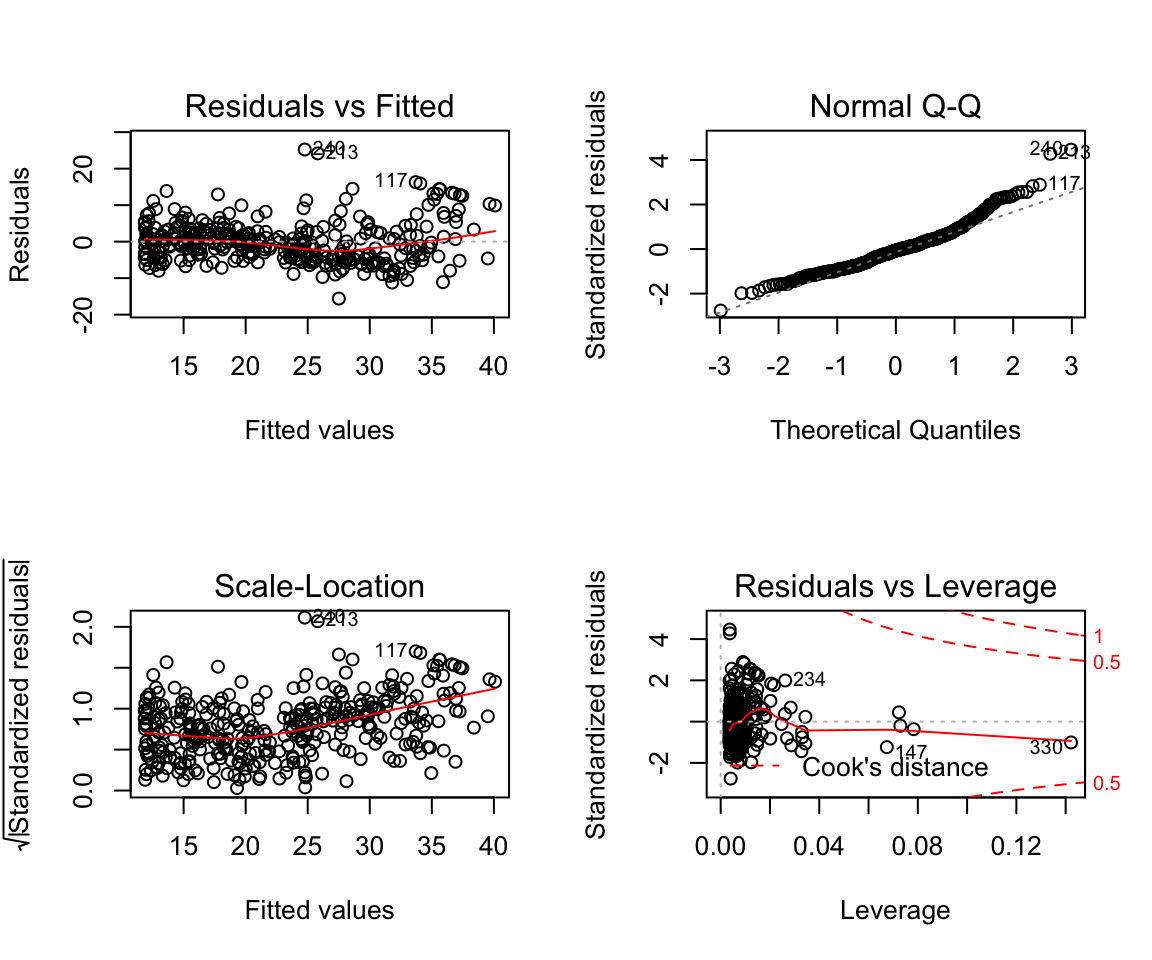
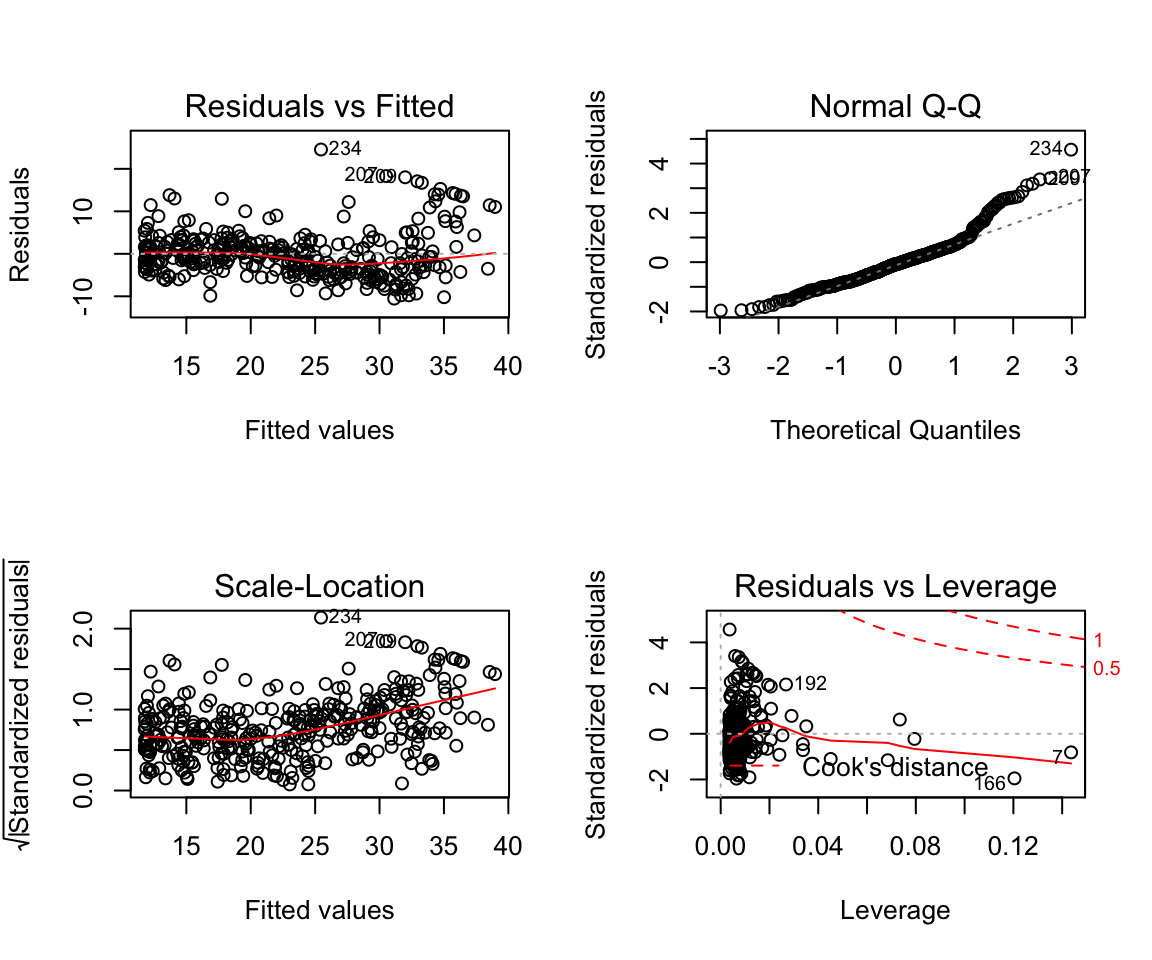
Update 314

diff --git a/STA314F19.html b/STA314F19.html
@@ -585,19 +585,19 @@ summary(model1)</code></pre>
 ## lm(formula = medv ~ lstat, data = df_train)
 ## 
 ## Residuals:
-##     Min      1Q  Median      3Q     Max 
-## -15.478  -4.264  -1.492   2.266  24.180 
+##    Min     1Q Median     3Q    Max 
+## -9.982 -4.000 -1.364  1.931 23.873 
 ## 
 ## Coefficients:
 ##             Estimate Std. Error t value Pr(&gt;|t|)    
-## (Intercept)  34.8172     0.6978   49.90   &lt;2e-16 ***
-## lstat        -0.9441     0.0477  -19.79   &lt;2e-16 ***
+## (Intercept) 34.38968    0.65308   52.66   &lt;2e-16 ***
+## lstat       -0.93051    0.04507  -20.65   &lt;2e-16 ***
 ## ---
 ## Signif. codes:  0 &#39;***&#39; 0.001 &#39;**&#39; 0.01 &#39;*&#39; 0.05 &#39;.&#39; 0.1 &#39; &#39; 1
 ## 
-## Residual standard error: 6.55 on 352 degrees of freedom
-## Multiple R-squared:  0.5268, Adjusted R-squared:  0.5254 
-## F-statistic: 391.8 on 1 and 352 DF,  p-value: &lt; 2.2e-16</code></pre>
+## Residual standard error: 6.194 on 352 degrees of freedom
+## Multiple R-squared:  0.5477, Adjusted R-squared:  0.5465 
+## F-statistic: 426.3 on 1 and 352 DF,  p-value: &lt; 2.2e-16</code></pre>
 <pre class="r"><code>plot(model1)</code></pre>
 <p><img src="STA314F19_files/figure-html/Model%20Assumptions-1.png" width="576" /><img src="STA314F19_files/figure-html/Model%20Assumptions-2.png" width="576" /><img src="STA314F19_files/figure-html/Model%20Assumptions-3.png" width="576" /><img src="STA314F19_files/figure-html/Model%20Assumptions-4.png" width="576" /></p>
 <p>Assumptions are not satisfied!</p>
@@ -629,19 +629,19 @@ summary(model2)</code></pre>
 ## 
 ## Residuals:
 ##     Min      1Q  Median      3Q     Max 
-## -16.270  -4.282  -1.484   2.660  22.865 
+## -11.320  -4.049  -1.229   1.811  22.801 
 ## 
 ## Coefficients:
 ##             Estimate Std. Error t value Pr(&gt;|t|)    
-## (Intercept) 33.48517    0.91463  36.611   &lt;2e-16 ***
-## lstat       -1.02161    0.05875 -17.388   &lt;2e-16 ***
-## age          0.03386    0.01515   2.235    0.026 *  
+## (Intercept) 33.04173    0.84912  38.913   &lt;2e-16 ***
+## lstat       -1.01228    0.05575 -18.157   &lt;2e-16 ***
+## age          0.03512    0.01428   2.459   0.0144 *  
 ## ---
 ## Signif. codes:  0 &#39;***&#39; 0.001 &#39;**&#39; 0.01 &#39;*&#39; 0.05 &#39;.&#39; 0.1 &#39; &#39; 1
 ## 
-## Residual standard error: 6.513 on 351 degrees of freedom
-## Multiple R-squared:  0.5334, Adjusted R-squared:  0.5307 
-## F-statistic: 200.6 on 2 and 351 DF,  p-value: &lt; 2.2e-16</code></pre>
+## Residual standard error: 6.151 on 351 degrees of freedom
+## Multiple R-squared:  0.5554, Adjusted R-squared:  0.5529 
+## F-statistic: 219.2 on 2 and 351 DF,  p-value: &lt; 2.2e-16</code></pre>
 <pre class="r"><code>plot(model2)</code></pre>
 <p><img src="STA314F19_files/figure-html/MLR-1.png" width="576" /><img src="STA314F19_files/figure-html/MLR-2.png" width="576" /><img src="STA314F19_files/figure-html/MLR-3.png" width="576" /><img src="STA314F19_files/figure-html/MLR-4.png" width="576" /></p>
 <p>How to add everything (and subtract some) variables:</p>
@@ -653,28 +653,28 @@ summary(model3)</code></pre>
 ## 
 ## Residuals:
 ##      Min       1Q   Median       3Q      Max 
-## -11.3489  -3.0458  -0.6117   2.0301  25.4191 
+## -16.0476  -2.8262  -0.5434   1.8303  26.4347 
 ## 
 ## Coefficients:
 ##               Estimate Std. Error t value Pr(&gt;|t|)    
-## (Intercept)  33.894182   6.330942   5.354 1.58e-07 ***
-## crim         -0.141533   0.036919  -3.834 0.000150 ***
-## zn            0.049012   0.016217   3.022 0.002699 ** 
-## chas          3.838400   1.064806   3.605 0.000359 ***
-## nox         -19.492956   4.337231  -4.494 9.56e-06 ***
-## rm            4.093314   0.518198   7.899 3.87e-14 ***
-## dis          -1.617703   0.223072  -7.252 2.77e-12 ***
-## rad           0.305310   0.074606   4.092 5.33e-05 ***
-## tax          -0.009415   0.003915  -2.405 0.016697 *  
-## ptratio      -0.854389   0.161702  -5.284 2.26e-07 ***
-## black         0.009051   0.003373   2.684 0.007636 ** 
-## lstat        -0.523129   0.056640  -9.236  &lt; 2e-16 ***
+## (Intercept)  33.588963   6.154665   5.457 9.29e-08 ***
+## crim         -0.026194   0.050355  -0.520 0.603274    
+## zn            0.042145   0.016541   2.548 0.011274 *  
+## chas          2.999092   1.034052   2.900 0.003969 ** 
+## nox         -17.760867   4.280422  -4.149 4.21e-05 ***
+## rm            3.940325   0.482194   8.172 5.97e-15 ***
+## dis          -1.472799   0.224174  -6.570 1.88e-10 ***
+## rad           0.302250   0.084253   3.587 0.000383 ***
+## tax          -0.013282   0.004484  -2.962 0.003268 ** 
+## ptratio      -0.838186   0.162037  -5.173 3.94e-07 ***
+## black         0.010429   0.003258   3.201 0.001496 ** 
+## lstat        -0.522241   0.056544  -9.236  &lt; 2e-16 ***
 ## ---
 ## Signif. codes:  0 &#39;***&#39; 0.001 &#39;**&#39; 0.01 &#39;*&#39; 0.05 &#39;.&#39; 0.1 &#39; &#39; 1
 ## 
-## Residual standard error: 5.007 on 342 degrees of freedom
-## Multiple R-squared:  0.7314, Adjusted R-squared:  0.7227 
-## F-statistic: 84.64 on 11 and 342 DF,  p-value: &lt; 2.2e-16</code></pre>
+## Residual standard error: 4.763 on 342 degrees of freedom
+## Multiple R-squared:  0.7402, Adjusted R-squared:  0.7319 
+## F-statistic: 88.59 on 11 and 342 DF,  p-value: &lt; 2.2e-16</code></pre>
 <p>How to add interactions:</p>
 <pre class="r"><code>model4 &lt;- lm(data = df_train, formula = medv ~ . -age -indus + lstat:ptratio )
 summary(model4)</code></pre>
@@ -684,29 +684,29 @@ summary(model4)</code></pre>
 ## 
 ## Residuals:
 ##      Min       1Q   Median       3Q      Max 
-## -11.3495  -3.0458  -0.6146   2.0275  25.4242 
+## -15.9272  -2.8449  -0.5772   1.8658  26.5312 
 ## 
 ## Coefficients:
 ##                 Estimate Std. Error t value Pr(&gt;|t|)    
-## (Intercept)    3.397e+01  7.673e+00   4.428 1.28e-05 ***
-## crim          -1.416e-01  3.703e-02  -3.823 0.000156 ***
-## zn             4.895e-02  1.658e-02   2.952 0.003378 ** 
-## chas           3.839e+00  1.067e+00   3.599 0.000367 ***
-## nox           -1.946e+01  4.671e+00  -4.166 3.93e-05 ***
-## rm             4.091e+00  5.336e-01   7.667 1.86e-13 ***
-## dis           -1.616e+00  2.330e-01  -6.937 2.03e-11 ***
-## rad            3.053e-01  7.472e-02   4.086 5.47e-05 ***
-## tax           -9.428e-03  3.981e-03  -2.368 0.018436 *  
-## ptratio       -8.588e-01  2.883e-01  -2.979 0.003099 ** 
-## black          9.054e-03  3.381e-03   2.678 0.007760 ** 
-## lstat         -5.306e-01  4.039e-01  -1.313 0.189907    
-## ptratio:lstat  3.883e-04  2.087e-02   0.019 0.985170    
+## (Intercept)    34.759429   7.366624   4.719 3.47e-06 ***
+## crim           -0.028183   0.050887  -0.554 0.580054    
+## zn              0.040873   0.017134   2.385 0.017605 *  
+## chas            3.019162   1.037749   2.909 0.003860 ** 
+## nox           -17.284907   4.589568  -3.766 0.000195 ***
+## rm              3.910229   0.493865   7.918 3.44e-14 ***
+## dis            -1.450514   0.237261  -6.114 2.66e-09 ***
+## rad             0.301616   0.084394   3.574 0.000402 ***
+## tax            -0.013400   0.004508  -2.972 0.003165 ** 
+## ptratio        -0.906469   0.285921  -3.170 0.001661 ** 
+## black           0.010462   0.003264   3.205 0.001477 ** 
+## lstat          -0.636926   0.399444  -1.595 0.111744    
+## ptratio:lstat   0.006030   0.020791   0.290 0.771962    
 ## ---
 ## Signif. codes:  0 &#39;***&#39; 0.001 &#39;**&#39; 0.01 &#39;*&#39; 0.05 &#39;.&#39; 0.1 &#39; &#39; 1
 ## 
-## Residual standard error: 5.014 on 341 degrees of freedom
-## Multiple R-squared:  0.7314, Adjusted R-squared:  0.7219 
-## F-statistic: 77.36 on 12 and 341 DF,  p-value: &lt; 2.2e-16</code></pre>
+## Residual standard error: 4.769 on 341 degrees of freedom
+## Multiple R-squared:  0.7403, Adjusted R-squared:  0.7311 
+## F-statistic: 80.99 on 12 and 341 DF,  p-value: &lt; 2.2e-16</code></pre>
 <p>How to write high level interactions:</p>
 <pre class="r"><code>model5 &lt;- lm(data = df_train, formula = medv ~ lstat*ptratio*black)
 summary(model5)</code></pre>
@@ -716,24 +716,24 @@ summary(model5)</code></pre>
 ## 
 ## Residuals:
 ##      Min       1Q   Median       3Q      Max 
-## -13.1307  -3.9053  -0.9233   1.7941  27.1501 
+## -12.6598  -3.3652  -0.8408   1.3818  27.4533 
 ## 
 ## Coefficients:
 ##                       Estimate Std. Error t value Pr(&gt;|t|)  
-## (Intercept)         -2.814e+01  5.108e+01  -0.551   0.5820  
-## lstat                2.176e+00  2.950e+00   0.738   0.4613  
-## ptratio              2.287e+00  2.584e+00   0.885   0.3766  
-## black                2.515e-01  1.341e-01   1.875   0.0616 .
-## lstat:ptratio       -1.191e-01  1.483e-01  -0.803   0.4223  
-## lstat:black         -1.130e-02  7.822e-03  -1.444   0.1495  
-## ptratio:black       -1.090e-02  6.798e-03  -1.603   0.1098  
-## lstat:ptratio:black  4.956e-04  3.940e-04   1.258   0.2093  
+## (Intercept)         -1.925e+01  4.671e+01  -0.412   0.6805  
+## lstat                1.825e+00  2.706e+00   0.674   0.5006  
+## ptratio              1.927e+00  2.362e+00   0.816   0.4152  
+## black                2.286e-01  1.227e-01   1.863   0.0633 .
+## lstat:ptratio       -1.064e-01  1.357e-01  -0.784   0.4337  
+## lstat:black         -1.044e-02  7.206e-03  -1.449   0.1482  
+## ptratio:black       -1.008e-02  6.218e-03  -1.620   0.1061  
+## lstat:ptratio:black  4.693e-04  3.624e-04   1.295   0.1961  
 ## ---
 ## Signif. codes:  0 &#39;***&#39; 0.001 &#39;**&#39; 0.01 &#39;*&#39; 0.05 &#39;.&#39; 0.1 &#39; &#39; 1
 ## 
-## Residual standard error: 6.019 on 346 degrees of freedom
-## Multiple R-squared:  0.6071, Adjusted R-squared:  0.5992 
-## F-statistic: 76.39 on 7 and 346 DF,  p-value: &lt; 2.2e-16</code></pre>
+## Residual standard error: 5.64 on 346 degrees of freedom
+## Multiple R-squared:  0.6315, Adjusted R-squared:  0.624 
+## F-statistic:  84.7 on 7 and 346 DF,  p-value: &lt; 2.2e-16</code></pre>
 <p>This is what our data looks like:</p>
 <pre class="r"><code>ggplot(data = df_train, aes(x = lstat, y = medv)) +
   geom_point() +
@@ -748,19 +748,19 @@ summary(model6)</code></pre>
 ## 
 ## Residuals:
 ##      Min       1Q   Median       3Q      Max 
-## -15.6090  -4.2046  -0.3744   2.6421  25.2400 
+## -10.5396  -3.7419  -0.4165   2.3696  24.5457 
 ## 
 ## Coefficients:
 ##              Estimate Std. Error t value Pr(&gt;|t|)    
-## (Intercept) 44.298144   1.056174   41.94   &lt;2e-16 ***
-## lstat       -2.514702   0.149400  -16.83   &lt;2e-16 ***
-## I(lstat^2)   0.048744   0.004456   10.94   &lt;2e-16 ***
+## (Intercept) 42.929795   0.980458   43.78   &lt;2e-16 ***
+## lstat       -2.367085   0.140022  -16.91   &lt;2e-16 ***
+## I(lstat^2)   0.044947   0.004206   10.69   &lt;2e-16 ***
 ## ---
 ## Signif. codes:  0 &#39;***&#39; 0.001 &#39;**&#39; 0.01 &#39;*&#39; 0.05 &#39;.&#39; 0.1 &#39; &#39; 1
 ## 
-## Residual standard error: 5.665 on 351 degrees of freedom
-## Multiple R-squared:  0.6471, Adjusted R-squared:  0.6451 
-## F-statistic: 321.8 on 2 and 351 DF,  p-value: &lt; 2.2e-16</code></pre>
+## Residual standard error: 5.388 on 351 degrees of freedom
+## Multiple R-squared:  0.6588, Adjusted R-squared:  0.6568 
+## F-statistic: 338.8 on 2 and 351 DF,  p-value: &lt; 2.2e-16</code></pre>
 <pre class="r"><code>ggplot(data = df_train, aes(x = lstat, y = medv)) +
   geom_point() +
   geom_smooth(method = &quot;lm&quot;, formula = y ~ x + I(x^2)) +
@@ -775,22 +775,22 @@ summary(model7)</code></pre>
 ## 
 ## Residuals:
 ##      Min       1Q   Median       3Q      Max 
-## -14.4738  -3.1575  -0.5226   2.3261  27.0463 
+## -14.2779  -3.0292  -0.5651   2.0560  26.6656 
 ## 
 ## Coefficients:
 ##                           Estimate Std. Error t value Pr(&gt;|t|)    
-## (Intercept)                22.8469     0.2824  80.912  &lt; 2e-16 ***
-## poly(lstat, degree = 5)1 -129.6530     5.3127 -24.404  &lt; 2e-16 ***
-## poly(lstat, degree = 5)2   61.9586     5.3127  11.662  &lt; 2e-16 ***
-## poly(lstat, degree = 5)3  -25.1276     5.3127  -4.730 3.27e-06 ***
-## poly(lstat, degree = 5)4   23.5874     5.3127   4.440 1.21e-05 ***
-## poly(lstat, degree = 5)5  -15.8957     5.3127  -2.992  0.00297 ** 
+## (Intercept)                22.7441     0.2649  85.855  &lt; 2e-16 ***
+## poly(lstat, degree = 5)1 -127.9015     4.9843 -25.661  &lt; 2e-16 ***
+## poly(lstat, degree = 5)2   57.5847     4.9843  11.553  &lt; 2e-16 ***
+## poly(lstat, degree = 5)3  -25.6720     4.9843  -5.151 4.36e-07 ***
+## poly(lstat, degree = 5)4   21.8966     4.9843   4.393 1.49e-05 ***
+## poly(lstat, degree = 5)5  -20.1715     4.9843  -4.047 6.40e-05 ***
 ## ---
 ## Signif. codes:  0 &#39;***&#39; 0.001 &#39;**&#39; 0.01 &#39;*&#39; 0.05 &#39;.&#39; 0.1 &#39; &#39; 1
 ## 
-## Residual standard error: 5.313 on 348 degrees of freedom
-## Multiple R-squared:  0.6922, Adjusted R-squared:  0.6878 
-## F-statistic: 156.5 on 5 and 348 DF,  p-value: &lt; 2.2e-16</code></pre>
+## Residual standard error: 4.984 on 348 degrees of freedom
+## Multiple R-squared:  0.7105, Adjusted R-squared:  0.7064 
+## F-statistic: 170.8 on 5 and 348 DF,  p-value: &lt; 2.2e-16</code></pre>
 <pre class="r"><code>ggplot(data = df_train, aes(x = lstat, y = medv)) +
   geom_point() +
   geom_smooth(method = &quot;lm&quot;, formula = y ~ poly(x, degree = 5)) +
@@ -809,17 +809,17 @@ df2_test &lt;- setdiff(df2, df2_train)
 glimpse(df2_train)</code></pre>
 <pre><code>## Observations: 280
 ## Variables: 11
-## $ Sales       &lt;dbl&gt; 5.40, 10.59, 6.88, 4.10, 5.90, 10.08, 5.55, 2.05, 4.…
-## $ CompPrice   &lt;dbl&gt; 149, 131, 96, 121, 138, 116, 104, 131, 137, 119, 122…
-## $ Income      &lt;dbl&gt; 73, 120, 39, 78, 92, 72, 100, 82, 112, 98, 74, 43, 4…
-## $ Advertising &lt;dbl&gt; 13, 15, 0, 4, 0, 10, 8, 0, 15, 0, 0, 0, 11, 0, 0, 10…
-## $ Population  &lt;dbl&gt; 381, 262, 161, 413, 13, 456, 398, 132, 434, 18, 424,…
-## $ Price       &lt;dbl&gt; 163, 124, 112, 130, 120, 130, 97, 157, 149, 126, 149…
-## $ ShelveLoc   &lt;fct&gt; Bad, Medium, Good, Bad, Bad, Good, Medium, Bad, Bad,…
-## $ Age         &lt;dbl&gt; 26, 30, 27, 46, 61, 41, 61, 25, 66, 73, 51, 57, 80, …
-## $ Education   &lt;dbl&gt; 11, 10, 14, 10, 12, 14, 11, 14, 13, 17, 13, 10, 15, …
-## $ Urban       &lt;fct&gt; No, Yes, No, No, Yes, No, Yes, Yes, Yes, No, Yes, No…
-## $ US          &lt;fct&gt; Yes, Yes, No, Yes, No, Yes, Yes, No, Yes, No, No, Ye…</code></pre>
+## $ Sales       &lt;dbl&gt; 9.62, 5.27, 7.52, 4.10, 13.36, 4.69, 7.37, 2.99, 7.7…
+## $ CompPrice   &lt;dbl&gt; 151, 98, 123, 130, 103, 132, 130, 103, 144, 131, 131…
+## $ Income      &lt;dbl&gt; 28, 118, 39, 28, 73, 113, 94, 74, 25, 47, 25, 77, 93…
+## $ Advertising &lt;dbl&gt; 8, 0, 5, 6, 3, 0, 8, 0, 3, 7, 10, 15, 4, 0, 0, 4, 13…
+## $ Population  &lt;dbl&gt; 499, 19, 499, 410, 276, 131, 137, 359, 70, 90, 183, …
+## $ Price       &lt;dbl&gt; 135, 107, 98, 133, 72, 124, 128, 97, 116, 118, 104, …
+## $ ShelveLoc   &lt;fct&gt; Medium, Medium, Medium, Bad, Medium, Medium, Medium,…
+## $ Age         &lt;dbl&gt; 48, 64, 34, 72, 34, 76, 64, 55, 77, 47, 56, 48, 66, …
+## $ Education   &lt;dbl&gt; 10, 17, 15, 16, 15, 17, 12, 11, 18, 12, 15, 18, 11, …
+## $ Urban       &lt;fct&gt; Yes, Yes, Yes, Yes, Yes, No, Yes, Yes, Yes, Yes, No,…
+## $ US          &lt;fct&gt; Yes, No, No, Yes, Yes, Yes, Yes, Yes, Yes, Yes, Yes,…</code></pre>
 <pre class="r"><code># Fit a model with a catergorical variable
 model7 &lt;- lm(data = df2_train, formula = Sales ~ ShelveLoc)
 summary(model7)</code></pre>
@@ -829,19 +829,19 @@ summary(model7)</code></pre>
 ## 
 ## Residuals:
 ##     Min      1Q  Median      3Q     Max 
-## -7.1669 -1.5894  0.0581  1.5884  6.1931 
+## -7.1073 -1.6849 -0.1323  1.6136  6.2527 
 ## 
 ## Coefficients:
 ##                 Estimate Std. Error t value Pr(&gt;|t|)    
-## (Intercept)       5.0876     0.2889   17.61  &lt; 2e-16 ***
-## ShelveLocGood     5.2889     0.4243   12.46  &lt; 2e-16 ***
-## ShelveLocMedium   2.0794     0.3443    6.04 4.95e-09 ***
+## (Intercept)       5.5652     0.2916   19.08  &lt; 2e-16 ***
+## ShelveLocGood     4.6086     0.4243   10.86  &lt; 2e-16 ***
+## ShelveLocMedium   1.5420     0.3497    4.41 1.48e-05 ***
 ## ---
 ## Signif. codes:  0 &#39;***&#39; 0.001 &#39;**&#39; 0.01 &#39;*&#39; 0.05 &#39;.&#39; 0.1 &#39; &#39; 1
 ## 
-## Residual standard error: 2.347 on 277 degrees of freedom
-## Multiple R-squared:  0.3619, Adjusted R-squared:  0.3572 
-## F-statistic: 78.54 on 2 and 277 DF,  p-value: &lt; 2.2e-16</code></pre>
+## Residual standard error: 2.387 on 277 degrees of freedom
+## Multiple R-squared:  0.3074, Adjusted R-squared:  0.3023 
+## F-statistic: 61.46 on 2 and 277 DF,  p-value: &lt; 2.2e-16</code></pre>
 <pre class="r"><code># What are ShelveLocGood and ShelveLocMedium 
 contrasts(df2$ShelveLoc)</code></pre>
 <pre><code>##        Good Medium
@@ -960,17 +960,6 @@ Corr(X,Y) = \frac{(\sum_i x_iy_i)}{\sqrt{\sum_i x_i^2}\sqrt{\sum_i y_i^2}}
 </ul>
 <p>Answer:</p>
 <p>If the data is perfectly linearly separable (meaning that you can draw a hyperplane such that all datapoints of either class are on different sides of it). Then the MLE solution to logistic regression does not exist. What this would mean when you are estimating coefficients is that as you train your model the estimates are going to diverge to infinity as your logistic regression is trying to approximate a step function. A good description of this can be found <a href="https://stats.stackexchange.com/a/254266">here</a></p>
-<ul>
-<li>Can you talk more about LDA?</li>
-</ul>
-<p>Answer:</p>
-<p>I think the most helpful right now would be to share the LDA slides from STA414</p>
-<p><img src="figures/STA314F19/FLDA1.png" /></p>
-<p><img src="figures/STA314F19/FLDA2.png" /></p>
-<p><img src="figures/STA314F19/FLDA3.png" /></p>
-<p><img src="figures/STA314F19/FLDA4.png" /></p>
-<p><img src="figures/STA314F19/FLDA5.png" /></p>
-<p><img src="figures/STA314F19/QDA1.png" /> <img src="figures/STA314F19/QDA2.png" /> <img src="figures/STA314F19/QDA3.png" /> <img src="figures/STA314F19/QDA4.png" /> <img src="figures/STA314F19/QDA5.png" /></p>
 </div>
 </div>
 
